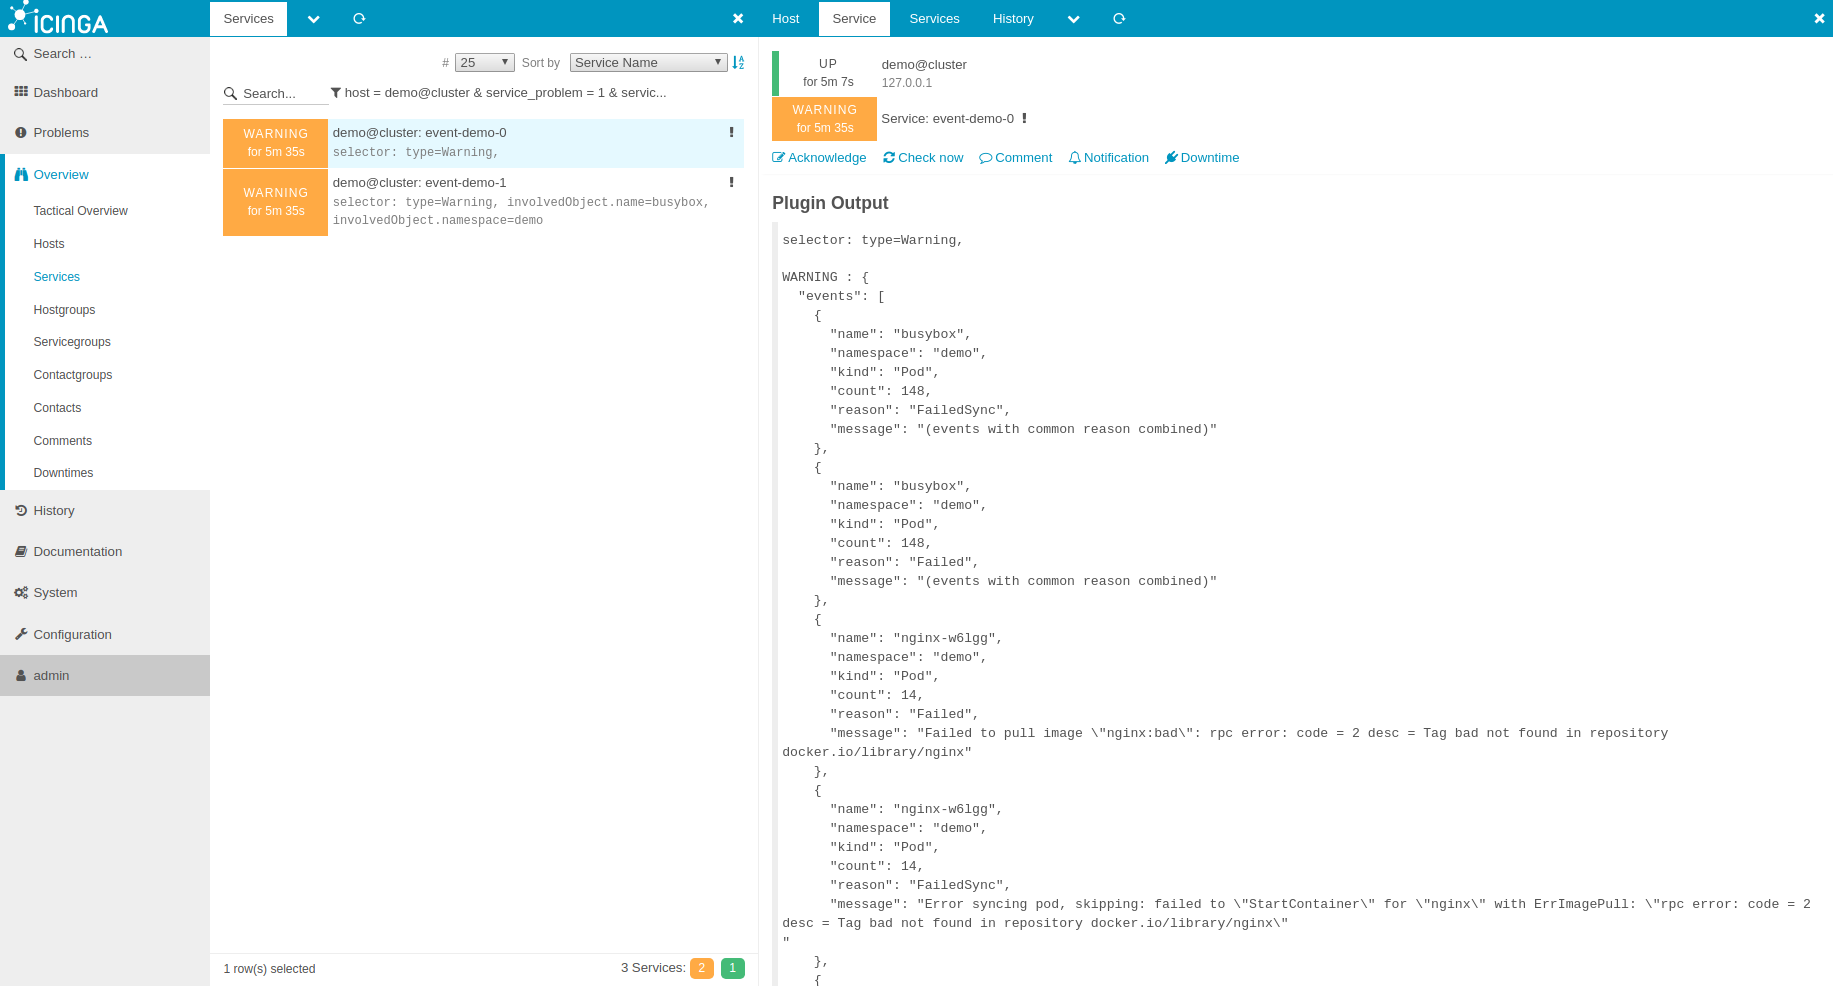
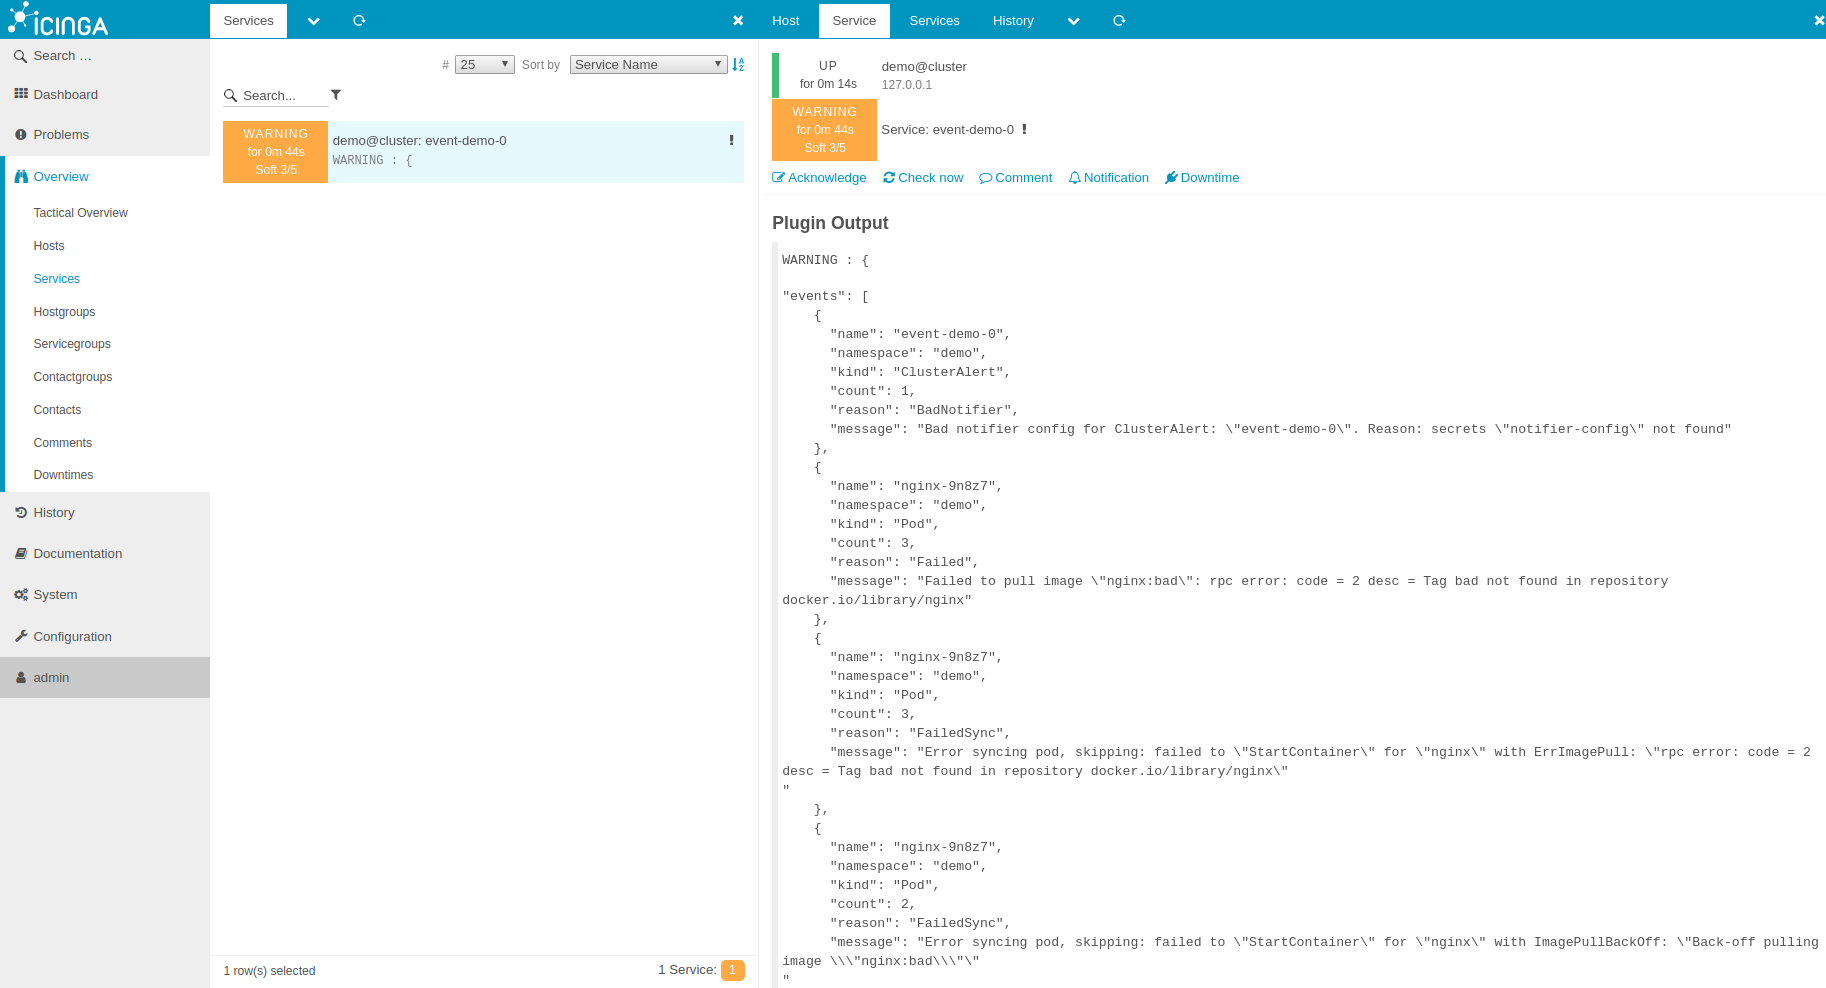
added-all

diff --git a/docs/cluster-alerts/event.md b/docs/cluster-alerts/event.md
@@ -2,7 +2,7 @@
 
 # Check event
 
-Check command `event` is used to check Kubernetes events. This plugin checks for all Warning events happened in the last `spec.checkInterval` duration. 
+Check command `event` is used to check Kubernetes events. This plugin checks for all Warning events happened in the last `spec.checkInterval` duration.
 
 
 ## Spec
@@ -39,18 +39,75 @@ kube-system   Active    6h
 demo          Active    4m
 ```
 
-### Create Alert
-In this tutorial, we are going to create an alert to check `env`.
+
+### Check existence of pods with matching labels
+In this tutorial, a ClusterAlert will be used check existence of warning events occurred in the last check interval.
 ```yaml
 $ cat ./docs/examples/cluster-alerts/event/demo-0.yaml
 
 apiVersion: monitoring.appscode.com/v1alpha1
 kind: ClusterAlert
 metadata:
-  name: env-demo-0
+  name: event-demo-0
   namespace: demo
 spec:
-  check: env
+  check: event
+  checkInterval: 30s
+  alertInterval: 2m
+  notifierSecretName: notifier-config
+  receivers:
+  - notifier: mailgun
+    state: WARNING
+    to: ["ops@example.com"]
+```
+```console
+$ kubectl apply -f ./docs/examples/cluster-alerts/event/demo-0.yaml 
+replicationcontroller "nginx" created
+clusteralert "event-demo-0" created
+
+$ kubectl describe clusteralert -n demo event-demo-0
+Name:		event-demo-0
+Namespace:	demo
+Labels:		<none>
+Events:
+  FirstSeen	LastSeen	Count	From			SubObjectPath	Type		Reason		Message
+  ---------	--------	-----	----			-------------	--------	------		-------
+  7s		7s		1	Searchlight operator			Warning		BadNotifier	Bad notifier config for ClusterAlert: "event-demo-0". Reason: secrets "notifier-config" not found
+  7s		7s		1	Searchlight operator			Normal		SuccessfulSync	Applied ClusterAlert: "event-demo-0"
+
+$ kubectl get events -n demo
+LASTSEEN   FIRSTSEEN   COUNT     NAME           KIND           SUBOBJECT                TYPE      REASON           SOURCE                 MESSAGE
+15s        15s         1         nginx-9n8z7    Pod                                     Normal    Scheduled        default-scheduler      Successfully assigned nginx-9n8z7 to minikube
+15s        15s         1         nginx-9n8z7    Pod            spec.containers{nginx}   Normal    Pulling          kubelet, minikube      pulling image "nginx:bad"
+12s        12s         1         nginx-9n8z7    Pod            spec.containers{nginx}   Warning   Failed           kubelet, minikube      Failed to pull image "nginx:bad": rpc error: code = 2 desc = Tag bad not found in repository docker.io/library/nginx
+12s        12s         1         nginx-9n8z7    Pod                                     Warning   FailedSync       kubelet, minikube      Error syncing pod, skipping: failed to "StartContainer" for "nginx" with ErrImagePull: "rpc error: code = 2 desc = Tag bad not found in repository docker.io/library/nginx"
+
+12s       12s       1         nginx-9n8z7   Pod       spec.containers{nginx}   Normal    BackOff      kubelet, minikube   Back-off pulling image "nginx:bad"
+12s       12s       1         nginx-9n8z7   Pod                                Warning   FailedSync   kubelet, minikube   Error syncing pod, skipping: failed to "StartContainer" for "nginx" with ImagePullBackOff: "Back-off pulling image \"nginx:bad\""
+
+15s       15s       1         nginx     ReplicationController             Normal    SuccessfulCreate   replication-controller   Created pod: nginx-9n8z7
+```
+
+Voila! `event` command has been synced to Icinga2. Please visit [here](/docs/tutorials/notifiers.md) to learn how to configure notifier secret. Now, open IcingaWeb2 in your browser. You should see a Icinga host `demo@cluster` and Icinga service `event-demo-0`.
+
+![check-all-pods](/docs/images/cluster-alerts/event/demo-0.png)
+
+
+### Check existence of a specific pod
+In this tutorial, a ClusterAlert will be used check existence of a pod by name by setting `spec.vars.podName` field.
+```yaml
+$ cat ./docs/examples/cluster-alerts/event/demo-1.yaml
+
+apiVersion: monitoring.appscode.com/v1alpha1
+kind: ClusterAlert
+metadata:
+  name: event-demo-1
+  namespace: demo
+spec:
+  check: event
+  vars:
+    podName: busybox
+    count: 1
   checkInterval: 30s
   alertInterval: 2m
   notifierSecretName: notifier-config
@@ -60,23 +117,31 @@ spec:
     to: ["ops@example.com"]
 ```
 ```console
-$ kubectl apply -f ./docs/examples/cluster-alerts/event/demo-0.yaml 
-clusteralert "env-demo-0" created
+$ kubectl apply -f ./docs/examples/cluster-alerts/event/demo-1.yaml
+pod "busybox" created
+podalert "event-demo-1" created
 
-$ kubectl describe clusteralert env-demo-0 -n demo
-Name:		env-demo-0
+$ kubectl get pods -n demo
+NAME          READY     STATUS    RESTARTS   AGE
+busybox       1/1       Running   0          5s
+
+$ kubectl get podalert -n demo
+NAME              KIND
+event-demo-1   ClusterAlert.v1alpha1.monitoring.appscode.com
+
+$ kubectl describe podalert -n demo event-demo-1
+Name:		event-demo-1
 Namespace:	demo
 Labels:		<none>
 Events:
   FirstSeen	LastSeen	Count	From			SubObjectPath	Type		Reason		Message
   ---------	--------	-----	----			-------------	--------	------		-------
-  6m		6m		1	Searchlight operator			Warning		BadNotifier	Bad notifier config for ClusterAlert: "env-demo-0". Reason: secrets "notifier-config" not found
-  6m		6m		1	Searchlight operator			Normal		SuccessfulSync	Applied ClusterAlert: "env-demo-0"
+  31s		31s		1	Searchlight operator			Warning		BadNotifier	Bad notifier config for ClusterAlert: "event-demo-1". Reason: secrets "notifier-config" not found
+  31s		31s		1	Searchlight operator			Normal		SuccessfulSync	Applied ClusterAlert: "event-demo-1"
+  27s		27s		1	Searchlight operator			Normal		SuccessfulSync	Applied ClusterAlert: "event-demo-1"
 ```
+![check-by-pod-label](/docs/images/cluster-alerts/event/demo-1.png)
 
-Voila! `env` command has been synced to Icinga2. Searchlight also logged a warning event, we have not created the notifier secret `notifier-config`. Please visit [here](/docs/tutorials/notifiers.md) to learn how to configure notifier secret. Now, open IcingaWeb2 in your browser. You should see a Icinga host `demo@cluster` and Icinga service `env-demo-0`.
-
-![Demo of check_env](/docs/images/cluster-alerts/event/demo-0.gif)
 
 ### Cleaning up
 To cleanup the Kubernetes resources created by this tutorial, run:
@@ -88,69 +153,3 @@ If you would like to uninstall Searchlight operator, please follow the steps [he
 
 
 ## Next Steps
-
-
-
-#### Supported Kubernetes Objects
-
-| Kubernetes Object | Icinga2 Host Type |
-| :---:             | :---:             |
-| cluster           | localhost         |
-
-#### Vars
-
-#### Supported Icinga2 State
-
-* OK
-* WARNING
-* UNKNOWN
-
-#### Example
-###### Command
-```console
-hyperalert check_event --check_interval=1m
-# --check_interval are provided by Icinga2
-```
-###### Output
-```json
-WARNING: {
-   "objects":[  
-      {  
-         "name":"tc-1916705895-ukpfx",
-         "namespace":"default",
-         "kind":"Pod",
-         "count":5984,
-         "reason":"FailedSync",
-         "message":"Error syncing pod, skipping: failed to \"StartContainer\" for \"tc\" with ImagePullBackOff: \"Back-off pulling image \\\"appscode/tillerc:765a57f\\\"\"\n"
-      },
-      {  
-         "name":"kube-apiserver-ip-172-20-0-9.ec2.internal",
-         "namespace":"kube-system",
-         "kind":"Pod",
-         "count":300167,
-         "reason":"FailedValidation",
-         "message":"Error validating pod kube-apiserver-ip-172-20-0-9.ec2.internal.kube-system from file, ignoring: metadata.name: Duplicate value: \"kube-apiserver-ip-172-20-0-9.ec2.internal\""
-      }
-   ],
-   "message":"Found 2 Warning event(s)"
-}
-```
-
-##### Configure Alert Object
-```yaml
-apiVersion: monitoring.appscode.com/v1alpha1
-kind: Alert
-metadata:
-  name: check-kube-event
-  namespace: demo
-  labels:
-    alert.appscode.com/objectType: cluster
-spec:
-  check: event
-  alertInterval: 2m
-  checkInterval: 1m
-  receivers:
-  - notifier: mailgun
-    state: CRITICAL
-    to: ["ops@example.com"]
-```
